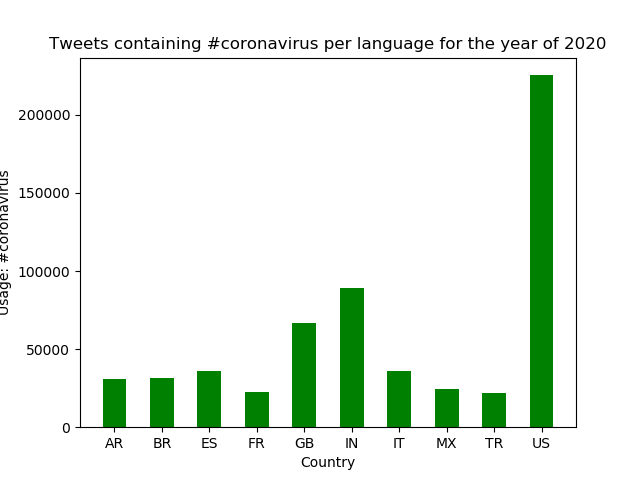
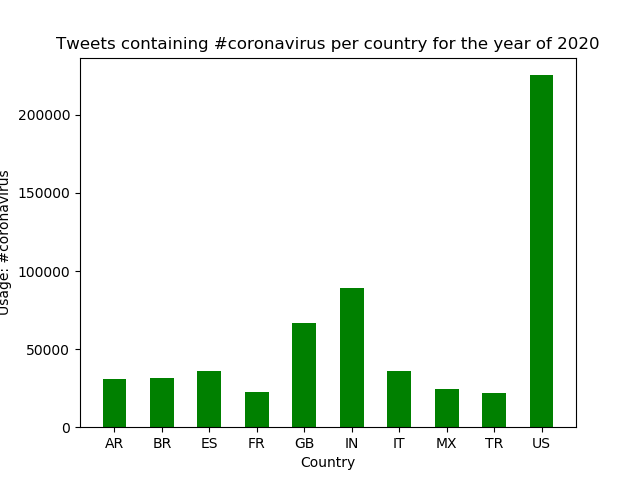
Fix Typo

Changed region(s): [[0.0938, 0.0625, 0.9375, 0.125]]

diff --git a/src/visualize.py b/src/visualize.py
@@ -43,7 +43,7 @@ if args.input_path == 'reduced.lang':
 else:
     plt.xlabel("Country")
     plt.ylabel("Usage: " + args.key)
-    plt.title("Tweets containing " + args.key + " per language for the year of 2020")
+    plt.title("Tweets containing " + args.key + " per country for the year of 2020")
 
 # save graph
 plt.savefig('plots/' + args.input_path + args.key + 'bar.png')
